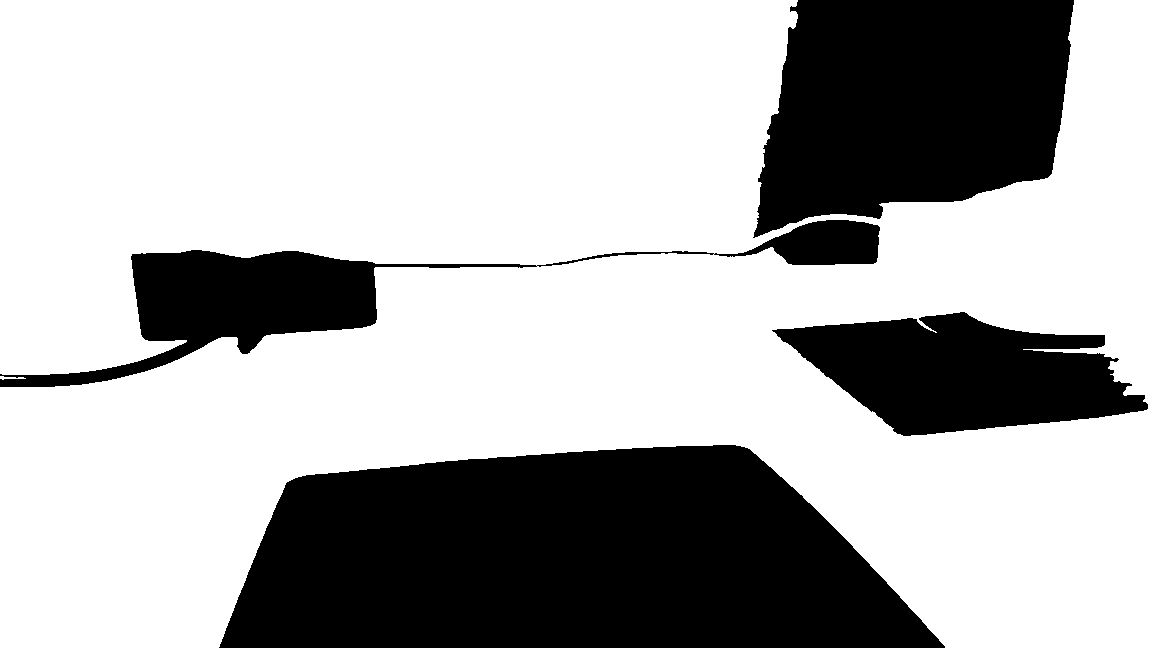
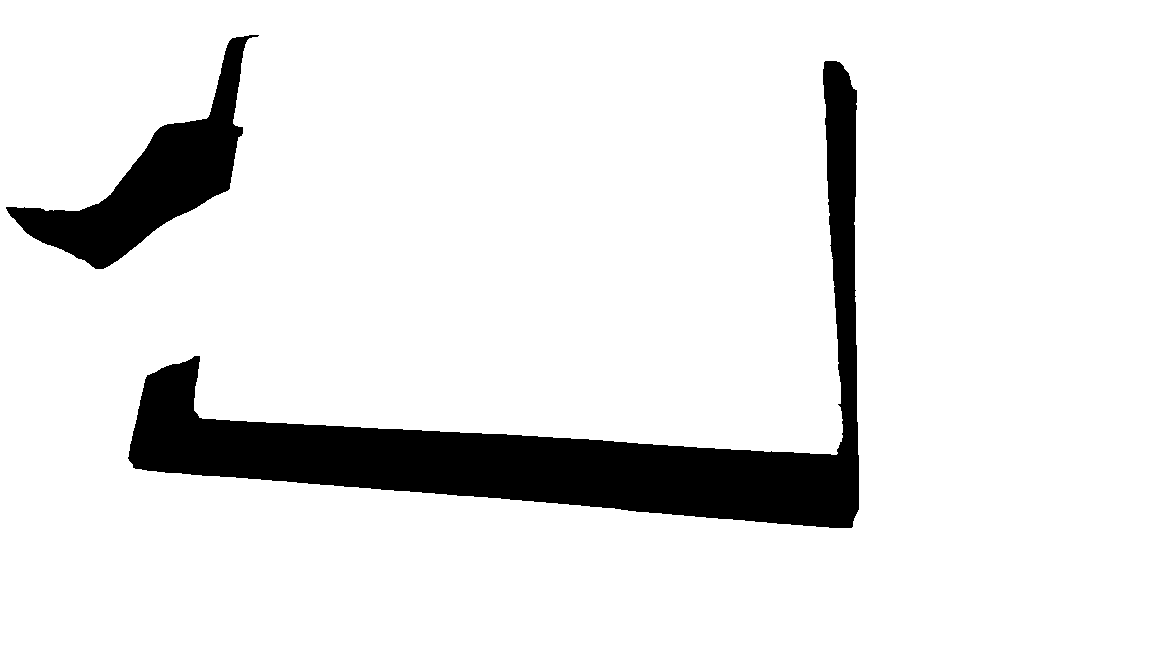
aaaaa

diff --git a/03-Software/3-coverage control/VideoCapture/video_capture.py b/03-Software/3-coverage control/VideoCapture/video_capture.py
@@ -2,9 +2,11 @@
 import cv2
 import img_compare
 import rect_detect
+import track_complete
 import math
 import perspective
 import center
+import per_dir as per_dir
 
 
 def rescaleFrame(frame, scale = 0.75):
@@ -20,16 +22,20 @@ def rescaleFrame(frame, scale = 0.75):
 # define a video capture object
 
 # 0 : webcam, to find other cameras, change the number
-vid = cv2.VideoCapture(0)
+#vid = cv2.VideoCapture(0)
 
 # IP Webcam app (Play Store)
-vid = cv2.VideoCapture('http://192.168.3.176:8080/video')
+vid = cv2.VideoCapture('http://192.168.137.2:8080/video')
 
-# first image to compare, in case no pictures is taken for comparison
+
+# first, second and base images to compare, in case no pictures is taken for comparison
 ret, first = vid.read()
 first = cv2.cvtColor(first, cv2.COLOR_BGR2GRAY)
 first = rescaleFrame(first, 0.6)
+base = first
+second = first
 
+i = 0               # only for saving images
 
 while(True):
     # Capture the video frame by frame
@@ -46,7 +52,7 @@ while(True):
 
     pressed = cv2.waitKey(1) & 0xFF
     # pressed button
-    if ((pressed == ord('f')) or (pressed == ord('s')) or (pressed == ord('t')) or (pressed == ord('q')) or (pressed == ord('d'))):
+    if ((pressed == ord('f')) or (pressed == ord('s')) or (pressed == ord('t')) or (pressed == ord('b')) or (pressed == ord('q')) or (pressed == ord('d'))):
         # capture first image for comparison
         # waits 1 msec
         if pressed == ord('f'):
@@ -54,9 +60,11 @@ while(True):
             first = cv2.cvtColor(first, cv2.COLOR_BGR2GRAY)
             first = rescaleFrame(first, 0.6)
             #first = perspective.perspective(first)
+            print(first.shape)
 
             # Display the resulting frame
             cv2.imshow('First', first)
+            cv2.imwrite('VideoCapture\TestImages\ClearImage.jpeg', first)
     
         # capture second image
         elif pressed == ord('s'):
@@ -68,8 +76,11 @@ while(True):
             # Display the resulting frame
             cv2.imshow('Second', second)
             second = cv2.cvtColor(second, cv2.COLOR_BGR2GRAY)
-            cont = img_compare.img_compare(first, second)
-            points_sec=rect_detect.rect_detect(cont,second.shape)
+            cont12, cont12_img = img_compare.img_compare(first, second)
+            # points_sec=rect_detect.rect_detect(cont,second.shape)
+
+            cv2.imwrite('VideoCapture\TestImages\Shadow{}.jpeg'.format(i), first)
+            i = i + 1
 
         elif pressed == ord('t'):
             # send this frame to the image processing algorithm
@@ -80,13 +91,31 @@ while(True):
             # Display the resulting frame
             cv2.imshow('Third', third)
             third = cv2.cvtColor(third, cv2.COLOR_BGR2GRAY)
-            cont13 = img_compare.img_compare(first, third)
-            points_third=rect_detect.rect_detect(cont13,third.shape)
+            cont13, cont13_img = img_compare.img_compare(first, third)
 
-            cont23 = img_compare.img_compare(second, third)
-            points_23=rect_detect.rect_detect(cont23,third.shape)
+            cont23, cont23_img = img_compare.img_compare(second, third)                     # last
+            
+            tracked_cont, tracked_img = track_complete.track_complete(cont13, cont23_img)
+            tracked_img = rect_detect.rect_detect(tracked_cont,tracked_img.shape)
+            per_dir.per_dir(cont_base_img, cont_base, tracked_img, tracked_cont, tracked_img.shape)
+
+            second = third              #for the following tracks, update second image
+
+
+        if pressed == ord('b'):
+            ret, base = vid.read()
+            base = cv2.cvtColor(base, cv2.COLOR_BGR2GRAY)
+            base = rescaleFrame(base, 0.6)
+            #first = perspective.perspective(first)
+
+            # Display the resulting frame
+            cv2.imshow('Base', base)
+            cv2.imwrite('VideoCapture\TestImages\Base.jpeg', base)
+
+            cont_base, cont_base_img = img_compare.img_compare(first, base)
+
         # to quit, use key 'q'
-        elif pressed == ord('q'):
+        elif pressed == ord('q'): 
             break
 
         # to destroy windows, use key 'd'

diff --git a/03-Software/3-coverage control/VideoCapture/per_dir.py b/03-Software/3-coverage control/VideoCapture/per_dir.py
@@ -1,0 +1,36 @@
+import cv2 as cv
+import numpy as np
+import center
+def per_dir(img_base,contb,img_track,contt,shape):   
+    base_center=center.center(contb[0],shape)
+    track_center=center.center(contt[0],shape)
+    img_base.astype('int64')
+    img_track.astype('int64')
+    if (base_center[0][1]-track_center[0][1])>shape[1]*0.5:
+        print("right by ", (base_center[0][1]-track_center[0][1])/shape[1]*100,"%")
+    elif(base_center[0][1]-track_center[0][1])<-shape[1]*0.5:
+        print("left by ", (track_center[0][1]-base_center[0][1])/shape[1]*100,"%")
+    elif (base_center[0][2]-track_center[0][2])>shape[0]*0.5:
+        print("down by ", (base_center[0][2]-track_center[0][2])/shape[0]*100,"%")
+    elif (base_center[0][2]-track_center[0][2])<-shape[0]*0.5:
+        print("up by ", (track_center[0][2]-base_center[0][2])/shape[0]*100,"%")
+    else:
+        if sum([sum(i) for i in img_track])-sum([sum(i) for i in img_base])\
+            >sum([sum(i) for i in img_base])*0.5:
+            print("go further from light")            # area is larger than base area
+            percentage=((sum([sum(i) for i in img_base])-sum([sum(i) for i in img_track]))/sum([sum(i) for i in img_base]))*100
+        elif sum([sum(i) for i in img_track])-sum([sum(i) for i in img_base])\
+            <-sum([sum(i) for i in img_base])*0.5:
+            print("closer to light")           # area is smaller than base area
+            percentage=((sum([sum(i) for i in img_track])-sum([sum(i) for i in img_base]))/sum([sum(i) for i in img_base]))*100
+        else:
+            print("A OK!")
+            print("Error of the system: ",percentage)
+
+            return 1
+
+    try:
+        print("Error of the system: ",percentage)
+    except:
+        pass
+    return 0        

diff --git a/03-Software/3-coverage control/VideoCapture/rect_detect.py b/03-Software/3-coverage control/VideoCapture/rect_detect.py
@@ -18,19 +18,19 @@ def rect_detect(conts,shape):
     for x in conts:
         mask = np.zeros(shape, dtype='uint8')
         contour = x[0][:, 0, :]
-        print(contour)
+        # print(contour)
         cv.drawContours(mask, x, -1, 255, -1)
         grid=mask>0
         cv.imshow("mask", (grid*255).astype("uint8"))
         rect=lir.lir(grid,contour)
-        print(rect)
+        # print(rect)
         cv.rectangle(blank,[rect[0],rect[1]],[rect[2]+rect[0],rect[3]+rect[1]],255,-1)
         recto.append([rect])
 
     cv.imshow("hey", blank)
     end = time.time()
-    print(end - start)
+    # print(end - start)
     cv.waitKey(0)
-    return recto
+    return blank
 
     

diff --git a/03-Software/3-coverage control/VideoCapture/track_complete.py b/03-Software/3-coverage control/VideoCapture/track_complete.py
@@ -1,0 +1,20 @@
+import numpy as np
+import cv2 as cv
+
+def track_complete(src_cont, intersect_img):
+    tracked_img=np.ones(intersect_img.shape, dtype='uint8')*255
+
+    for cont in src_cont:
+        blank=np.ones(intersect_img.shape, dtype='uint8')*255
+        cv.drawContours(blank, cont, -1, 0, -1)
+
+        bitwise_and = cv.bitwise_and(blank, intersect_img)
+        contours, _ = cv.findContours(bitwise_and, cv.RETR_TREE, cv.CHAIN_APPROX_SIMPLE)
+
+        if(len(contours) != 0):
+            cv.drawContours(tracked_img, cont, -1, 0, -1)
+            cv.imshow('Tracked image', tracked_img)
+            break
+
+
+    return [cont], tracked_img

diff --git a/03-Software/3-coverage control/VideoCapture/img_compare.py b/03-Software/3-coverage control/VideoCapture/img_compare.py
@@ -47,4 +47,4 @@ def img_compare(first,second):
 
 
 
-    return con_real
+    return con_real, blank
